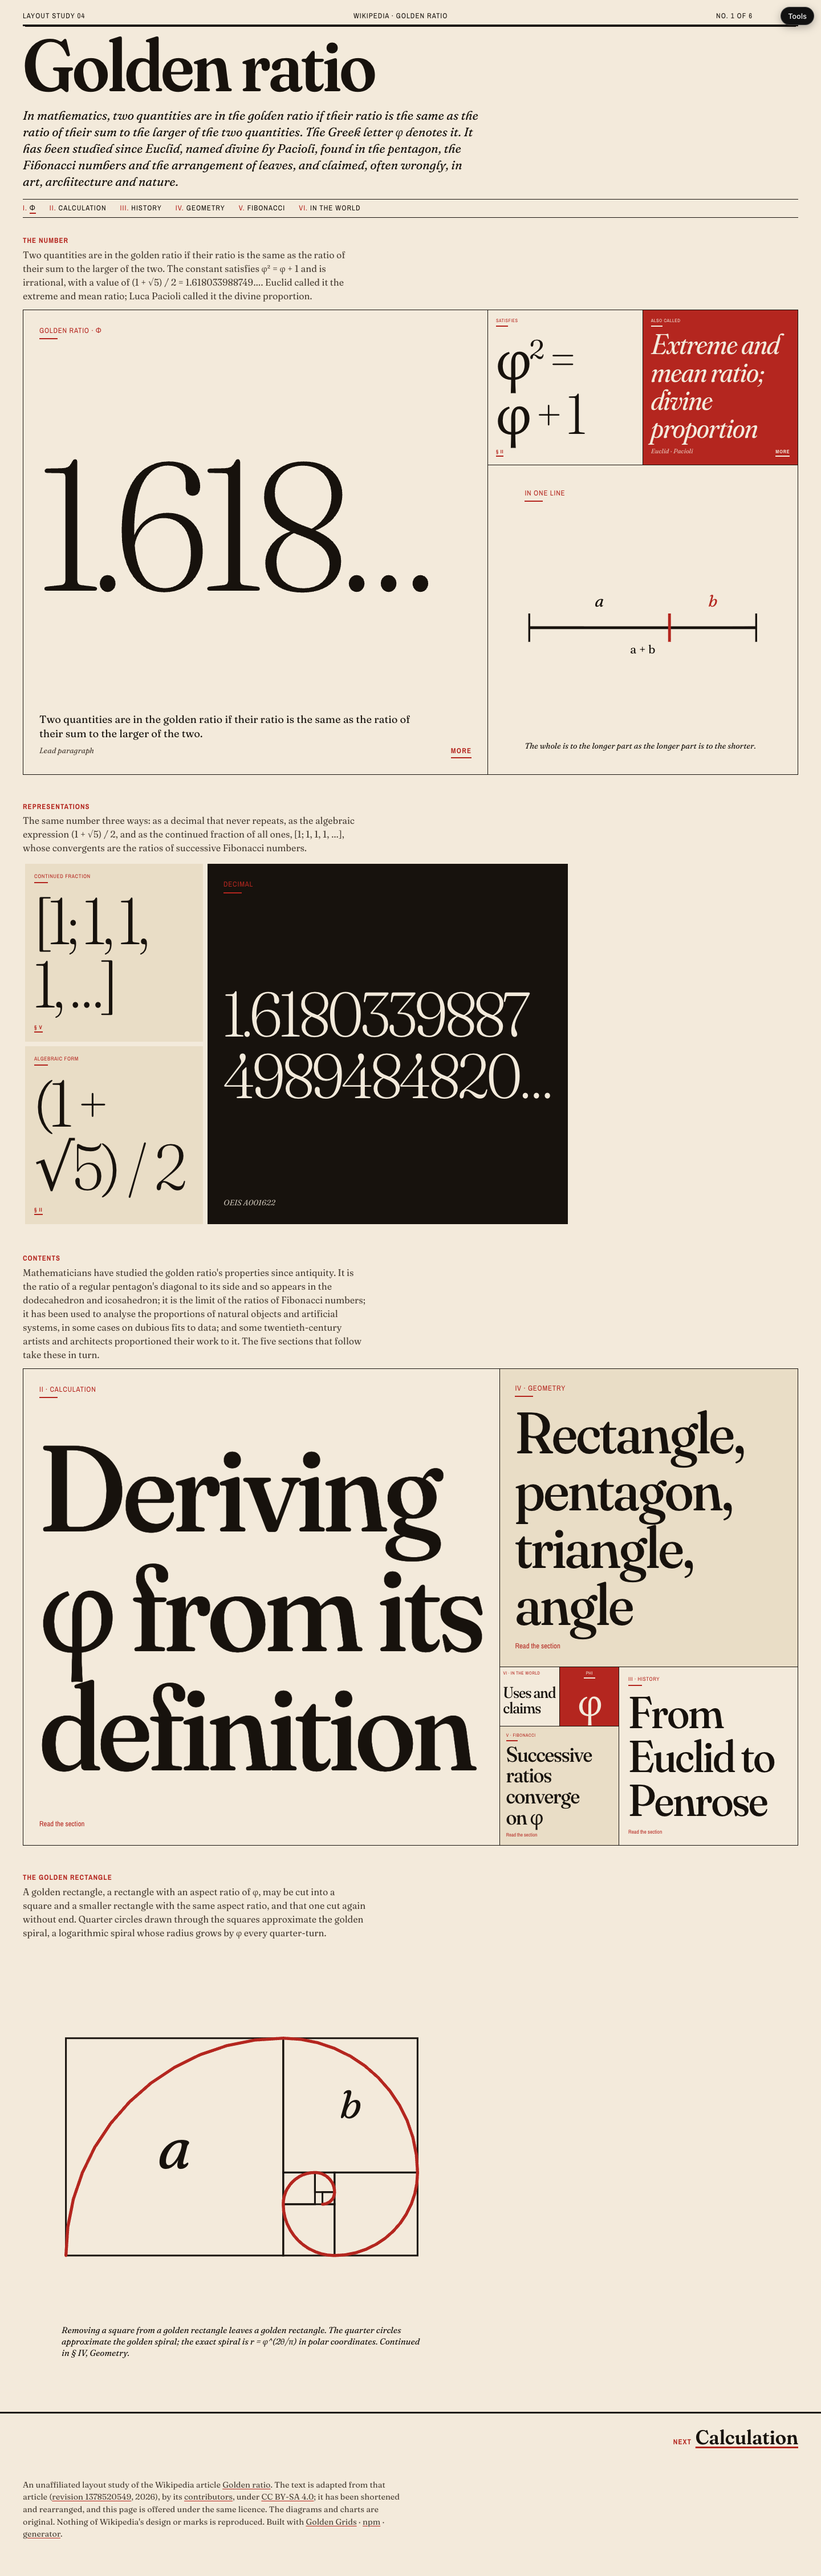
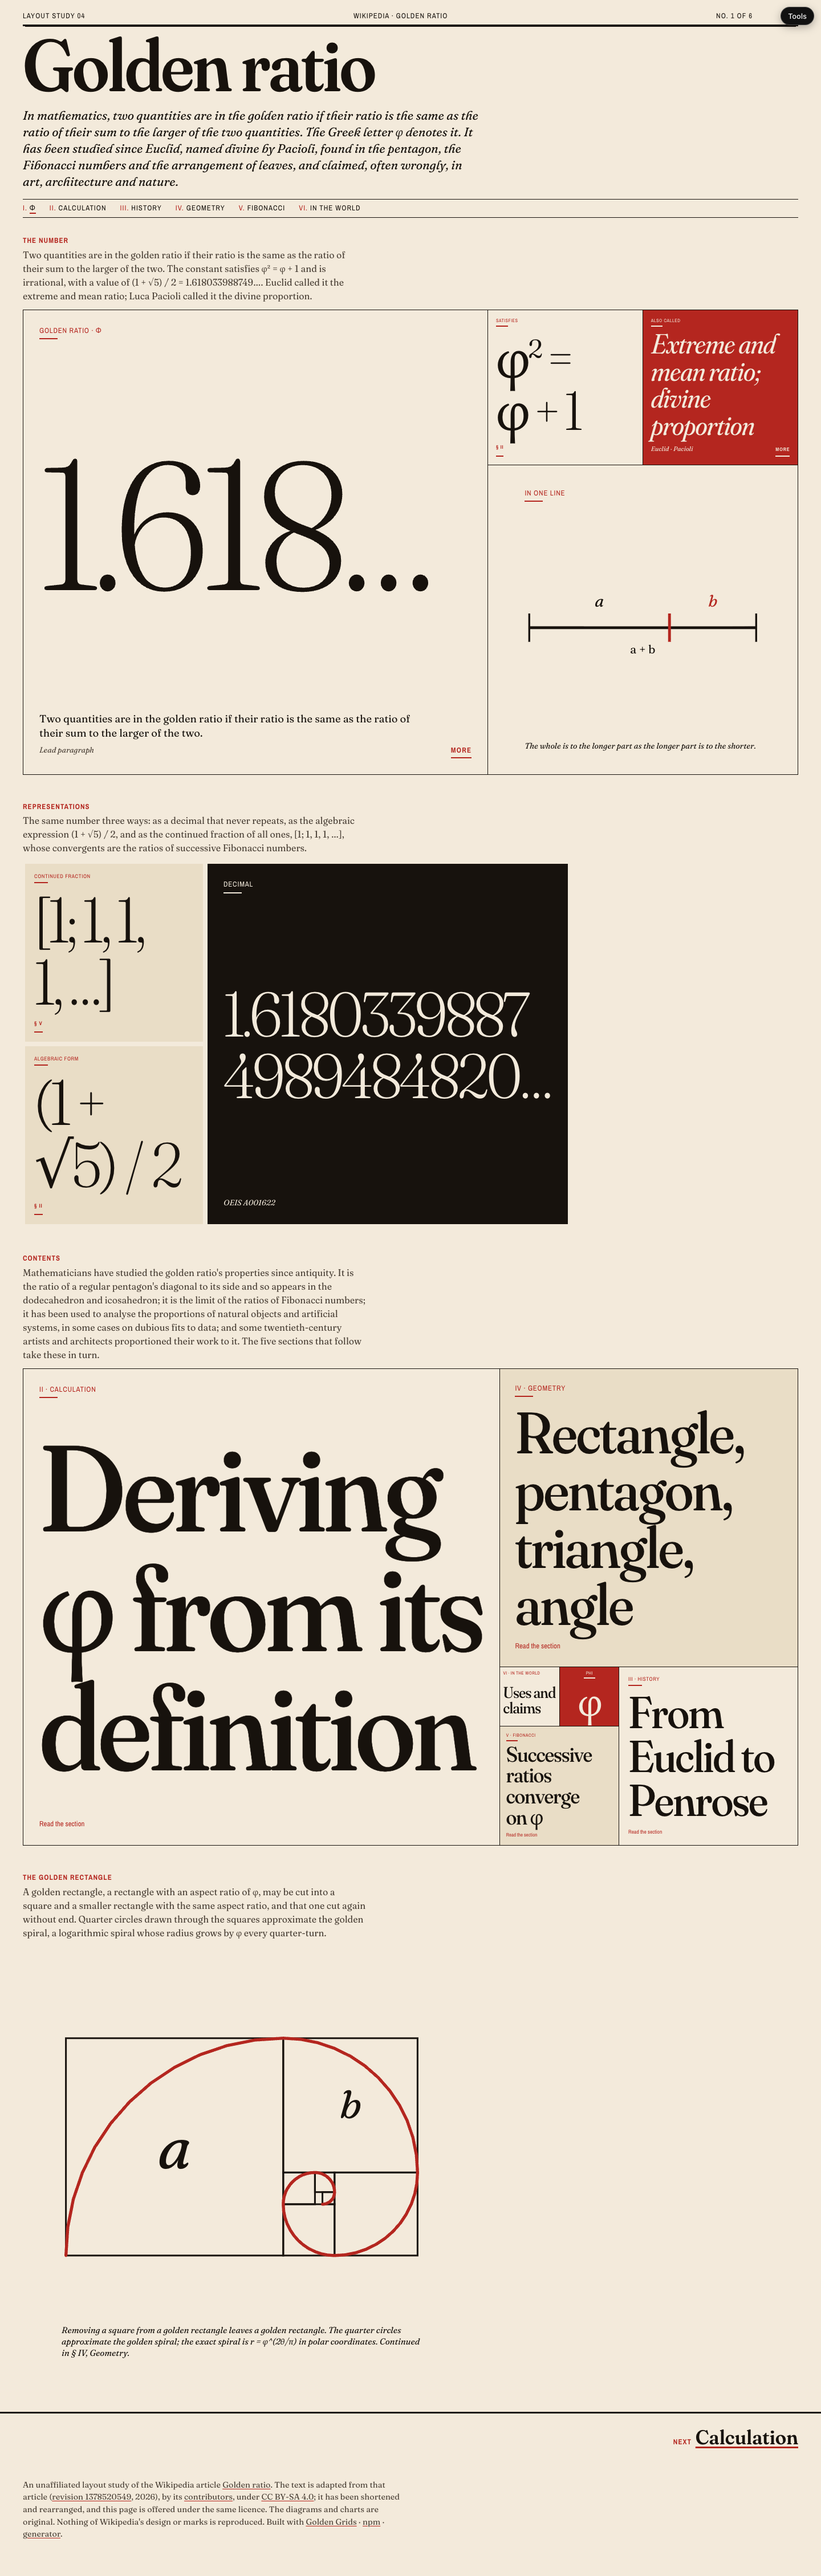
fix: accessibility, contrast, names, spoken formulae and keyboard order
axe-core clean on all six pages in both schemes. Labels take the box's
text colour on red and inverted grounds; dark mode gets a second red for
grounds under light type. Every More control and section link has a
distinct accessible name. Fitted formulae carry a spoken form as hidden
text. The skip link precedes the tools in the tab order; controls are at
least 24px tall.

diff --git a/src/styles.css b/src/styles.css
@@ -11,7 +11,8 @@
   --paper-deep: #e9ddc6;
   --ink: #17120d;
   --ink-soft: #4a4036;
-  --red: #b4261f;
+  --red: #b4261f;         /* red as text and line */
+  --red-ground: #b4261f;  /* red as a ground under light type */
   --on-red: #f3eadb;
   --rule: #17120d;
   --display: "Fraunces", "Iowan Old Style", Georgia, serif;
@@ -33,7 +34,8 @@
     --paper-deep: #221b13;
     --ink: #f1e8d6;
     --ink-soft: #b9ad99;
-    --red: #e0574a;
+    --red: #e0574a;         /* lifted, to read as text on the dark stock */
+    --red-ground: #a8231c;  /* kept deep, so the light type on it reads */
     --on-red: #fff6ea;
     --rule: #f1e8d6;
   }
@@ -131,10 +133,15 @@ a { color: inherit; text-decoration: underline; text-decoration-color: var(--red
   container-type: size;
 }
 .open .box { inset: 4px; }
-.box--red { background: var(--red); color: var(--on-red); }
+.box--red { background: var(--red-ground); color: var(--on-red); }
 .box--red .box__label, .box--red a { color: inherit; }
 .box--red a { text-decoration-color: var(--on-red); }
 .box--ink { background: var(--ink); color: var(--paper); }
+/* On the inverted and red grounds the red label would fall under 4.5:1, so
+   the label takes the box's own text colour there. */
+.box--ink .box__label, .box--red .box__label { color: inherit; }
+.box--ink .more { color: inherit; }
+.box--ink :focus-visible, .box--red :focus-visible { outline-color: currentColor; }
 .box--deep { background: var(--paper-deep); }
 .box__label { color: var(--red); margin: 0 0 0.35em; font-size: clamp(0.5rem, 3.4cqmin, 0.8rem); letter-spacing: 0.06em; }
 .box--red .box__label::after, .box__label::after { content: ""; display: block; width: 2.5em; border-top: 2px solid currentColor; margin-top: 0.35em; }
@@ -170,7 +177,7 @@ a { color: inherit; text-decoration: underline; text-decoration-color: var(--red
 .box__body p:last-child { margin-bottom: 0; }
 .box__foot { margin-top: auto; padding-top: 0.5em; font-size: clamp(0.55rem, 3.4cqmin, 0.8rem); display: flex; justify-content: space-between; gap: 1em; align-items: baseline; }
 .box__source { font-size: clamp(0.7rem, 3.2cqmin, 0.85rem); color: var(--ink-soft); font-style: italic; }
-.box--red .box__source, .box--ink .box__source { color: inherit; opacity: 0.8; }
+.box--red .box__source, .box--ink .box__source { color: inherit; }
 /* A diagram fills its box, inset. */
 .box--figure { padding: clamp(6px, 3cqmin, 24px); }
 .box--figure svg { flex: 1 1 0; min-height: 0; height: auto !important; width: 100%; }
@@ -188,6 +195,7 @@ a.box:hover .fit, a.box:focus-visible .fit { text-decoration: underline; text-de
 
 /* The read-more button: a small-caps word, not a chrome button. */
 .more {
+  min-height: 24px; /* WCAG 2.2 target size */
   font: 700 1em/1 var(--label);
   letter-spacing: 0.1em; text-transform: uppercase;
   color: var(--red); background: transparent; border: 0; padding: 0.3em 0; cursor: pointer;

diff --git a/src/lib/boxes.tsx b/src/lib/boxes.tsx
@@ -1,6 +1,16 @@
 import type { ReactNode } from "react";
 import { Fit } from "./fit";
 import { ExpandedCell, type ExpandGroup } from "./expand";
+import { PAGES } from "./Page";
+
+/** The accessible name of a section link: "Continued in section IV, Geometry". */
+function sectionName(href: string): string | undefined {
+  const file = href.replace(/^\.\//, "").split("#")[0];
+  const i = PAGES.findIndex((p) => p.file === file);
+  if (i < 0) return undefined;
+  const roman = ["I", "II", "III", "IV", "V", "VI"][i];
+  return `Continued in section ${roman}, ${PAGES[i].title}`;
+}
 
 /**
  * What goes inside a slot. Three kinds, and every one is a flex column
@@ -18,7 +28,7 @@ const tone = (t?: Tone) => (t && t !== "paper" ? ` box--${t}` : "");
 /** One fact: a label, a fitted line, optional body copy, a source line,
  *  and optionally a longer passage behind a "more" control. */
 export function Fact({
-  label, children, fitClass, min, max, body, source, tone: t, align, expand, link,
+  label, children, fitClass, min, max, body, source, tone: t, align, expand, link, spoken,
 }: {
   label?: string;
   children: ReactNode;
@@ -32,20 +42,23 @@ export function Fact({
   expand?: { group: ExpandGroup; slotKey: string; title: string; full: ReactNode; source?: string; related?: Related[] };
   /** Where this fact continues on another page. */
   link?: { href: string; label: string };
+  /** What a screen reader should say for the fitted line, when the visible
+   *  line breaks a formula across lines or uses symbols that do not read. */
+  spoken?: string;
 }) {
   return (
     <>
       <div className={`box${tone(t)}`}>
         {label && <p className="box__label">{label}</p>}
         <div className={`box__fit${align ? ` box__fit--${align}` : ""}`}>
-          <Fit as="p" className={fitClass} min={min ?? 8} max={max}>{children}</Fit>
+          <Fit as="p" className={fitClass} min={min ?? 8} max={max} ariaLabel={spoken}>{children}</Fit>
         </div>
         {body && <div className="box__body">{body}</div>}
         {(source || expand || link) && (
           <div className="box__foot">
             {source && <span className="box__source">{source}</span>}
-            {link && <a className="more more--link" href={link.href}>{link.label}</a>}
-            {expand && <button className="more" {...expand.group.triggerProps(expand.slotKey)}>More</button>}
+            {link && <a className="more more--link" href={link.href} aria-label={sectionName(link.href)}>{link.label}</a>}
+            {expand && <button className="more" aria-label={`More: ${expand.title}`} {...expand.group.triggerProps(expand.slotKey)}>More</button>}
           </div>
         )}
       </div>

diff --git a/src/pages/calculation.tsx b/src/pages/calculation.tsx
@@ -36,6 +36,7 @@ function Derivation() {
           <Fact
             label="Result · the positive root"
             fitClass="fit--num"
+            spoken="phi equals one plus the square root of five, over two, which is 1.618033 and so on"
             body={<p>The quadratic formula yields two solutions. The positive root is the golden ratio; the negative root, −1/φ, shares many of its properties.</p>}
             source="Calculation, final step"
             expand={{
@@ -75,10 +76,10 @@ function Derivation() {
           <Fact label="Step 3 · multiply by φ" fitClass="fit--num">φ + 1 = φ²</Fact>
         </GoldenBox>
         <GoldenBox>
-          <Fact label="Step 2 · substitute" fitClass="fit--num" tone="deep">{"(φ + 1) / φ\n= φ"}</Fact>
+          <Fact label="Step 2 · substitute" fitClass="fit--num" tone="deep" spoken="phi plus one, over phi, equals phi">{"(φ + 1) / φ\n= φ"}</Fact>
         </GoldenBox>
         <GoldenBox>
-          <Fact label="Step 1 · define" fitClass="fit--num" link={{ href: "./index.html#lead", label: "§ I" }}>{"(a + b) / a\n= a / b = φ"}</Fact>
+          <Fact label="Step 1 · define" fitClass="fit--num" link={{ href: "./index.html#lead", label: "§ I" }} spoken="a plus b, over a, equals a over b, equals phi">{"(a + b) / a\n= a / b = φ"}</Fact>
         </GoldenBox>
       </GoldenGrid>
     </Band>
@@ -98,10 +99,10 @@ function Roots() {
     >
       <GoldenGrid from={1} to={2} placement="right">
         <GoldenBox>
-          <Fact label="Positive root" tone="ink" fitClass="fit--num" source="φ, the golden ratio">{"1 + √5\n2"}</Fact>
+          <Fact label="Positive root" tone="ink" fitClass="fit--num" source="φ, the golden ratio" spoken="one plus the square root of five, over two">{"1 + √5\n2"}</Fact>
         </GoldenBox>
         <GoldenBox {...x.boxProps("conj")}>
-          <Fact label="Negative root" tone="red" fitClass="fit--num" source="1 − φ = −1/φ"
+          <Fact label="Negative root" tone="red" fitClass="fit--num" source="1 − φ = −1/φ" spoken="one minus the square root of five, over two"
             expand={{
               group: x, slotKey: "conj", title: "The algebraic conjugate",
               full: (

diff --git a/src/pages/index.tsx b/src/pages/index.tsx
@@ -79,7 +79,7 @@ function Lead() {
           </Fact>
         </GoldenBox>
         <GoldenBox>
-          <Fact label="Satisfies" fitClass="fit--num" link={{ href: "./calculation.html#derivation", label: "§ II" }}>φ² = φ + 1</Fact>
+          <Fact label="Satisfies" fitClass="fit--num" link={{ href: "./calculation.html#derivation", label: "§ II" }} spoken="phi squared equals phi plus one">φ² = φ + 1</Fact>
         </GoldenBox>
       </GoldenGrid>
     </Band>
@@ -100,15 +100,15 @@ function Infobox() {
     >
       <GoldenGrid from={1} to={3} placement="bottom" clockwise={false}>
         <GoldenBox>
-          <Fact label="Decimal" tone="ink" fitClass="fit--num" source="OEIS A001622">
+          <Fact label="Decimal" tone="ink" fitClass="fit--num" source="OEIS A001622" spoken="1.61803398874989484820 and so on">
             {"1.6180339887\n4989484820…"}
           </Fact>
         </GoldenBox>
         <GoldenBox>
-          <Fact label="Algebraic form" tone="deep" fitClass="fit--num" link={{ href: "./calculation.html#roots", label: "§ II" }}>(1 + √5) / 2</Fact>
+          <Fact label="Algebraic form" tone="deep" fitClass="fit--num" link={{ href: "./calculation.html#roots", label: "§ II" }} spoken="one plus the square root of five, over two">(1 + √5) / 2</Fact>
         </GoldenBox>
         <GoldenBox>
-          <Fact label="Continued fraction" tone="deep" fitClass="fit--num" link={{ href: "./fibonacci.html#fraction", label: "§ V" }}>[1; 1, 1, 1, …]</Fact>
+          <Fact label="Continued fraction" tone="deep" fitClass="fit--num" link={{ href: "./fibonacci.html#fraction", label: "§ V" }} spoken="one; one, one, one, and so on">[1; 1, 1, 1, …]</Fact>
         </GoldenBox>
       </GoldenGrid>
     </Band>

diff --git a/src/pages/fibonacci.tsx b/src/pages/fibonacci.tsx
@@ -74,6 +74,7 @@ function Convergence() {
                 { href: "./geometry.html#rectangle", label: "The golden rectangle" },
               ],
             }}
+            spoken="F of n plus one, over F of n, tends to phi"
           >
             {"F(n+1) / F(n)\n→ φ"}
           </Fact>
@@ -101,10 +102,10 @@ function Fraction() {
           </Figure>
         </GoldenBox>
         <GoldenBox>
-          <Fact label="Also" tone="deep" fitClass="fit--num" source="nested radicals">√(1 + √(1 + √(1 + …)))</Fact>
+          <Fact label="Also" tone="deep" fitClass="fit--num" source="nested radicals" spoken="the square root of one plus the square root of one plus the square root of one plus, and so on">√(1 + √(1 + √(1 + …)))</Fact>
         </GoldenBox>
         <GoldenBox>
-          <Fact label="Binet's formula" tone="red" fitClass="fit--num" source="de Moivre, Bernoulli, Euler; Binet 1843">{"F(n) =\n(φⁿ − (−φ)⁻ⁿ) / √5"}</Fact>
+          <Fact label="Binet's formula" tone="red" fitClass="fit--num" source="de Moivre, Bernoulli, Euler; Binet 1843" spoken="F of n equals phi to the n, minus minus phi to the minus n, all over the square root of five">{"F(n) =\n(φⁿ − (−φ)⁻ⁿ) / √5"}</Fact>
         </GoldenBox>
       </GoldenGrid>
     </Band>

diff --git a/src/pages/geometry.tsx b/src/pages/geometry.tsx
@@ -37,7 +37,7 @@ function Rectangle() {
           </Figure>
         </GoldenBox>
         <GoldenBox {...x.boxProps("sides")}>
-          <Fact label="Sides" tone="deep" fitClass="fit--num" body={<p>Removing or adding squares leaves rectangles still proportioned in the ratio φ.</p>} source="Golden rectangle"
+          <Fact label="Sides" tone="deep" fitClass="fit--num" body={<p>Removing or adding squares leaves rectangles still proportioned in the ratio φ.</p>} source="Golden rectangle" spoken="one to phi"
             expand={{
               group: x, slotKey: "sides", title: "The golden rectangle",
               full: (
@@ -51,7 +51,7 @@ function Rectangle() {
           >1 : φ</Fact>
         </GoldenBox>
         <GoldenBox {...x.boxProps("spiral")}>
-          <Fact label="The spiral" tone="red" fitClass="fit--num" body={<p>Grows by φ each quarter-turn.</p>}
+          <Fact label="The spiral" tone="red" fitClass="fit--num" body={<p>Grows by φ each quarter-turn.</p>} spoken="r equals phi to the power two theta over pi"
             expand={{
               group: x, slotKey: "spiral", title: "The golden spiral",
               full: (

diff --git a/src/lib/fit.tsx b/src/lib/fit.tsx
@@ -25,12 +25,15 @@ export function Fit({
   min = 12,
   max = 320,
   className,
+  ariaLabel,
   children,
 }: {
   as?: ElementType;
   min?: number;
   max?: number;
   className?: string;
+  /** Spoken form, when the visible line is a formula broken across lines. */
+  ariaLabel?: string;
   children: ReactNode;
 }) {
   const ref = useRef<HTMLElement>(null);
@@ -67,8 +70,13 @@ export function Fit({
   }, [min, max, children]);
 
   return (
-    <Tag ref={ref} className={["fit", className].filter(Boolean).join(" ")}>
-      {children}
-    </Tag>
+    <>
+      <Tag ref={ref} className={["fit", className].filter(Boolean).join(" ")} aria-hidden={ariaLabel ? true : undefined}>
+        {children}
+      </Tag>
+      {/* aria-label is unreliable on a paragraph, so the spoken form is real
+          text, visually hidden, beside the line it stands for. */}
+      {ariaLabel && <span className="visually-hidden">{ariaLabel}</span>}
+    </>
   );
 }

diff --git a/src/diagrams/index.tsx b/src/diagrams/index.tsx
@@ -115,7 +115,7 @@ export function GoldenAngle() {
   return (
     <svg viewBox="0 0 100 100" style={frame} role="img" aria-label="A circle divided into two arcs in the golden ratio; the smaller arc is 137.5 degrees">
       <circle cx="50" cy="50" r="40" fill="none" stroke={INK} strokeWidth="0.8" />
-      <path d={`M 50 50 L 50 10 A 40 40 0 0 1 ${x} ${y} Z`} fill={RED} fillOpacity="0.9" />
+      <path d={`M 50 50 L 50 10 A 40 40 0 0 1 ${x} ${y} Z`} fill="var(--red-ground)" />
       <text x="63" y="38" fontSize="7" fill="var(--on-red)" fontWeight="700">137.5°</text>
       <text x="22" y="72" fontSize="7" fill={INK}>222.5°</text>
     </svg>

diff --git a/src/lib/Page.tsx b/src/lib/Page.tsx
@@ -41,8 +41,9 @@ export function Page({ current, kicker, title, standfirst, children }: {
   const next = PAGES[index + 1];
   return (
     <>
-      <Tools />
+      {/* The skip link is the first thing in the tab order, before the tools. */}
       <a className="skip" href="#content">Skip to content</a>
+      <Tools />
       <header className="masthead">
         <p className="masthead__kicker">
           <span>Layout study 04</span>

diff --git a/README.md b/README.md
@@ -170,6 +170,44 @@ Seven, all original, all inline SVG drawn from the mathematics:
 7. The ratios of successive Fibonacci numbers, as a line chart, and φ as a
    continued fraction of ones.
 
+## Accessibility
+
+Audited with axe-core 4.10 (WCAG 2.0/2.1/2.2 A and AA plus best practice)
+on all six pages in both colour schemes, with an expansion open: no
+violations. What that took, and what axe cannot check:
+
+- **Contrast.** The red label fell under 4.5:1 on the inverted and red
+  boxes, so there it takes the box's own text colour. In dark mode the red
+  that reads as text (`--red`) is lifted, and the red that sits under light
+  type (`--red-ground`) is kept deep: two tokens, because one value cannot
+  pass both ways.
+- **Names.** Sixteen buttons all read "More" to a screen reader; each is
+  now "More: ⟨the passage's title⟩". The section marks (`§ IV`) read
+  "Continued in section IV, Geometry". The contents mark the current page
+  with `aria-current`.
+- **Formulae.** A line like "1 + √5" over "2" is a fraction to the eye and
+  a list of symbols to a screen reader. Eleven fitted lines carry a spoken
+  form as visually hidden text ("one plus the square root of five, over
+  two") and the visible line is hidden from assistive technology.
+- **Figures.** Every SVG is `role="img"` with a label that says what it
+  shows, including the chart's data; captions are `figcaption`.
+- **Keyboard.** The skip link is first in the tab order, before the tools.
+  Tab reaches every More control; Enter opens the passage and moves focus to
+  its close control; Escape closes it and returns focus to the control that
+  opened it; everything the passage covers is `inert` while it is open.
+  Focus rings are 3px, in the box's own text colour on red and inverted
+  grounds.
+- **Targets.** Every control is at least 24px tall (WCAG 2.2).
+- **Reflow.** No horizontal scroll at 320px.
+- **Motion.** Nothing animates; the reduced-motion rule is `none`.
+- **Structure.** One `h1` per page, one `h2` per band, landmarks for
+  header, nav, main and footer, `lang="en"`, a distinct title per page.
+
+Not checked, and stated: the fitted type's smallest lines are 11px at 390
+on the contents band, which no rule forbids and no reader with low vision
+would thank us for; and nothing has been tested with a real screen reader
+user.
+
 ## Interactions: expand, and cross
 
 Two ways to go deeper, both without leaving the grid.
